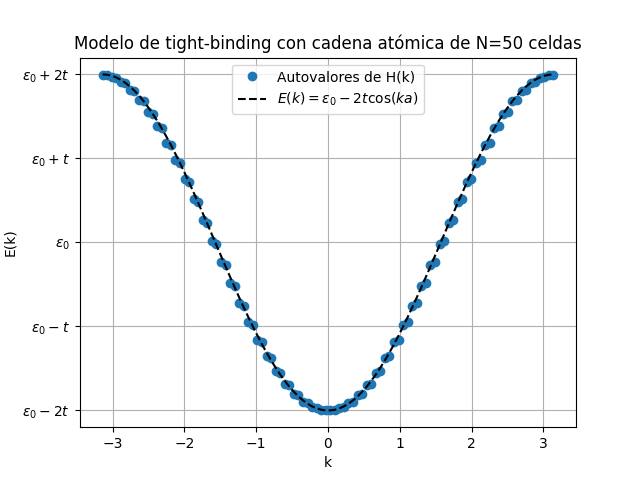
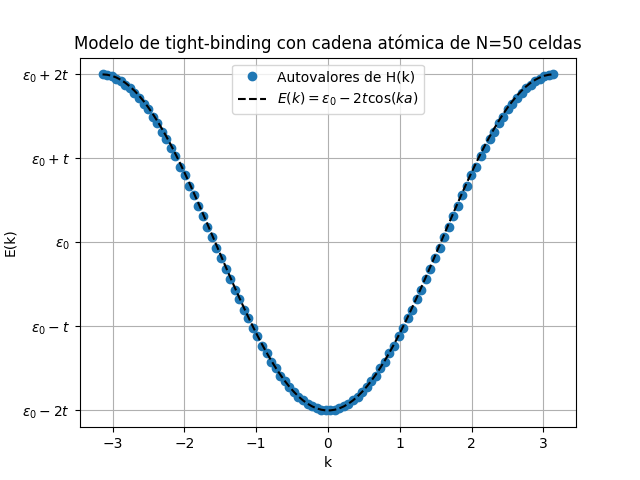
Add ight_binding_parallel

diff --git a/tight_binding_parallel.py b/tight_binding_parallel.py
@@ -1,0 +1,125 @@
+import random
+import numpy as np
+import matplotlib.pyplot as plt
+from multiprocessing import Pool, cpu_count
+import argparse
+import time
+
+def calcular_estructura_de_bandas_para_k(args):
+    k, N, a, t, eps = args
+    H = np.zeros((N, N), dtype=complex)
+
+    # Término de energía en el sitio
+    for i in range(N):
+        H[i, i] = eps
+
+    # Términos de hopping con condiciones de contorno periódicas
+    for i in range(N):
+        H[i, (i+1) % N] = -t * np.exp(1j * k * a)
+        H[(i+1) % N, i] = -t * np.exp(-1j * k * a)
+
+    evals = np.linalg.eigvalsh(H)
+    return evals
+
+def calcular_estructura_de_bandas(N, a, t, eps, valores_k, num_cores):
+    """
+    Calcula la estructura de bandas para un modelo de tight-binding en 1D.
+
+    Parámetros:
+        N (int): Número de orbitales atómicos.
+        a (float): Espaciado de la red.
+        t (float): Parámetro de hopping.
+        eps (float): Energía en el sitio.
+        valores_k (np.ndarray): Array de valores de k.
+        num_cores (int): Número de núcleos a utilizar para la paralelización.
+
+    Retorna:
+        lista de np.ndarray: Lista de arrays de autovalores para cada valor de k.
+    """
+    with Pool(num_cores) as p:
+        autovalores = p.map(calcular_estructura_de_bandas_para_k, [(k, N, a, t, eps) for k in valores_k])
+
+    return autovalores
+
+def seleccionar_autovalores_aleatorios(autovalores):
+    """
+    Selecciona un conjunto arbitrario de autovalores de la estructura de bandas calculada.
+
+    Parámetros:
+        autovalores (lista de np.ndarray): Lista de arrays de autovalores para cada valor de k.
+
+    Retorna:
+        np.ndarray: Array de autovalores seleccionados.
+    """
+    indice_aleatorio = random.randint(0, len(autovalores) - 1)
+    return autovalores[indice_aleatorio]
+
+def aplicar_condiciones_de_contorno_periodicas(autovalores):
+    """
+    Aplica condiciones de contorno periódicas de manera que E(-k) = E(k).
+
+    Parámetros:
+        autovalores (np.ndarray): Array de autovalores.
+
+    Retorna:
+        np.ndarray: Array de autovalores con condiciones de contorno periódicas aplicadas.
+    """
+    return np.concatenate((np.flip(autovalores, 0), autovalores), axis=0)
+
+def calcular_banda_analitica(valores_k, t, eps, a):
+    return eps - 2 * t * np.cos(valores_k * a)
+
+def graficar_estructura_de_bandas(valores_k, banda_numerica, t, eps, a, N, num_cores):
+    banda_analitica = calcular_banda_analitica(valores_k, t, eps, a)
+
+    fig, axs = plt.subplots()
+    axs.plot(valores_k, banda_numerica, 'o', label=f'Autovalores de H(k)')
+    axs.plot(valores_k, banda_analitica, label=r'$E(k) = \epsilon_0 - 2t\cos(ka)$', linestyle='--', color='black')
+    axs.set_yticks([eps-2.*t, eps-t, eps, eps+t, eps+2.*t])
+    axs.set_yticklabels(['$\epsilon_0-2t$', '$\epsilon_0-t$', '$\epsilon_0$', '$\epsilon_0+t$', '$\epsilon_0+2t$'])
+    axs.set_xlabel('k')
+    axs.set_ylabel('E(k)')
+    axs.set_title(f'Modelo de tight-binding con cadena atómica de N={N} celdas (Cores: {num_cores})')
+    axs.legend()
+    axs.grid(True)
+
+    fig.savefig(f'tight_binding_cores_{num_cores}.png')
+
+def main():
+    # Definir los argumentos de línea de comandos
+    parser = argparse.ArgumentParser(description='Modelo de tight-binding en 1D')
+    parser.add_argument('--cores', type=int, default=cpu_count(), help='Número de núcleos a utilizar')
+
+    args = parser.parse_args()
+    num_cores = args.cores
+
+    # Parámetros
+    N = 500     # Número de orbitales atómicos
+    a = 1       # Espaciado de la red
+    t = 0.5     # Parámetro de hopping
+    eps = 0.0   # Energía en el sitio
+    max_iterations = 2 * N
+    valores_k = np.linspace(-np.pi/a, np.pi/a, max_iterations)  # Array de valores k
+
+    # Medir el tiempo de ejecución
+    start_time = time.time()
+
+    # Calcular la estructura de bandas
+    autovalores = calcular_estructura_de_bandas(N, a, t, eps, valores_k, num_cores)
+
+    # Seleccionar un conjunto arbitrario de autovalores para graficar
+    autovalores_seleccionados = seleccionar_autovalores_aleatorios(autovalores)
+
+    # Aplicar las condiciones de contorno periódicas
+    autovalores_con_ccp = aplicar_condiciones_de_contorno_periodicas(autovalores_seleccionados)
+
+    # Graficar la estructura de bandas
+    graficar_estructura_de_bandas(valores_k, autovalores_con_ccp, t, eps, a, N, num_cores)
+
+    # Calcular y mostrar el tiempo de ejecución
+    end_time = time.time()
+    execution_time = end_time - start_time
+    print(f'Tiempo de ejecución: {execution_time} s')
+
+if __name__ == '__main__':
+    main()
